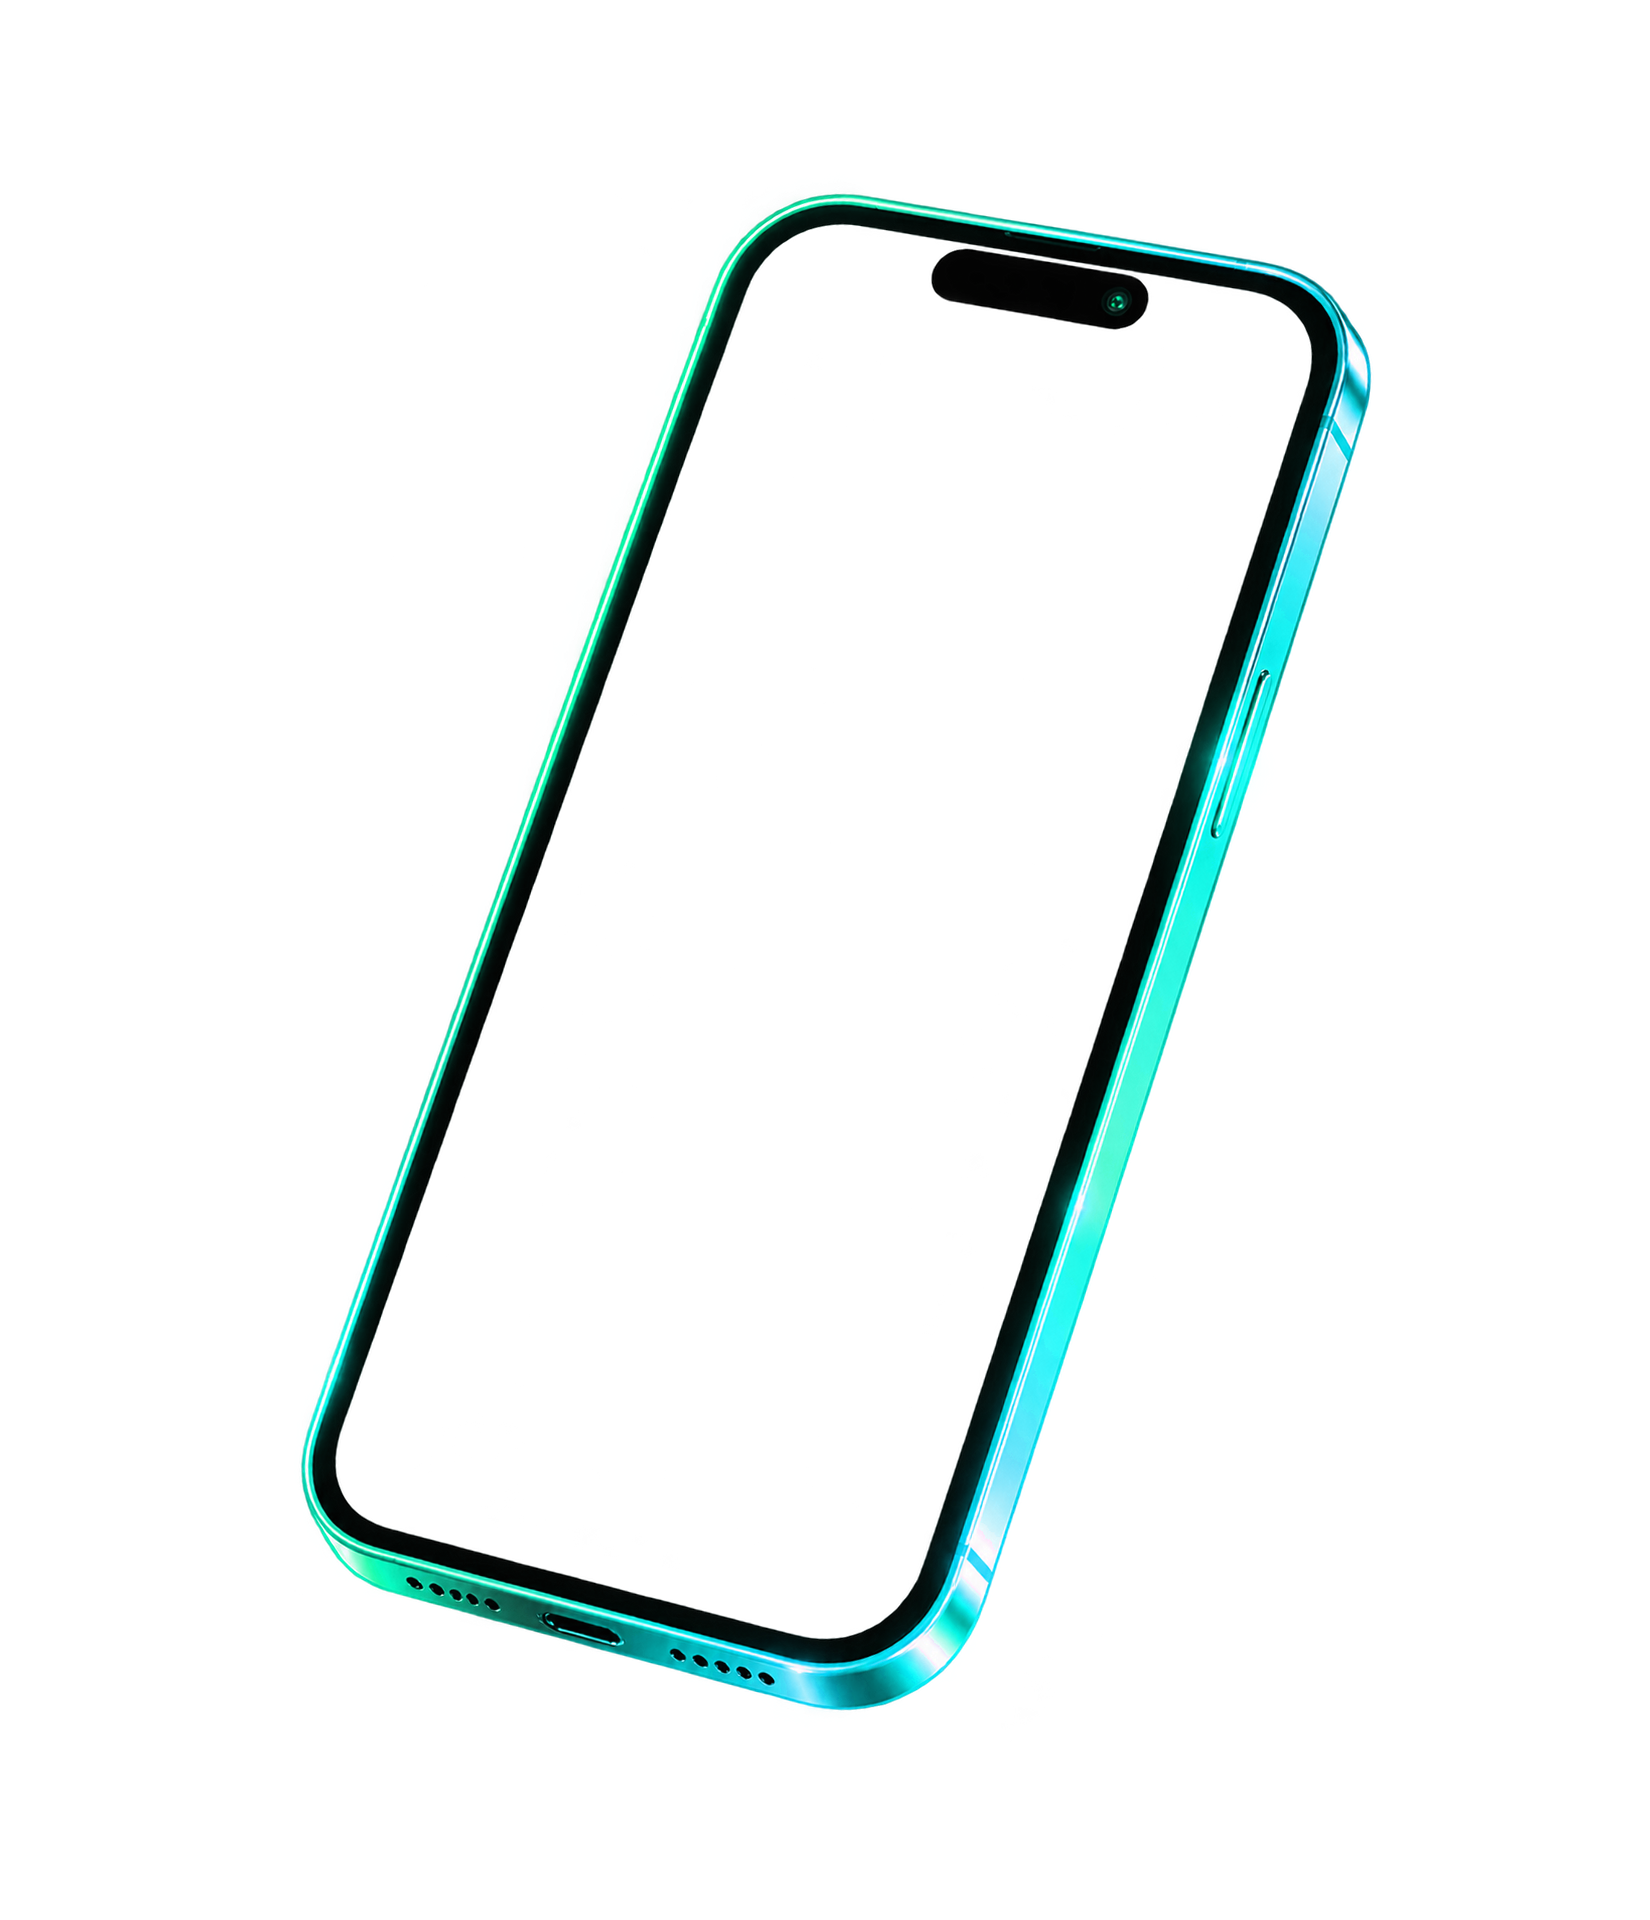
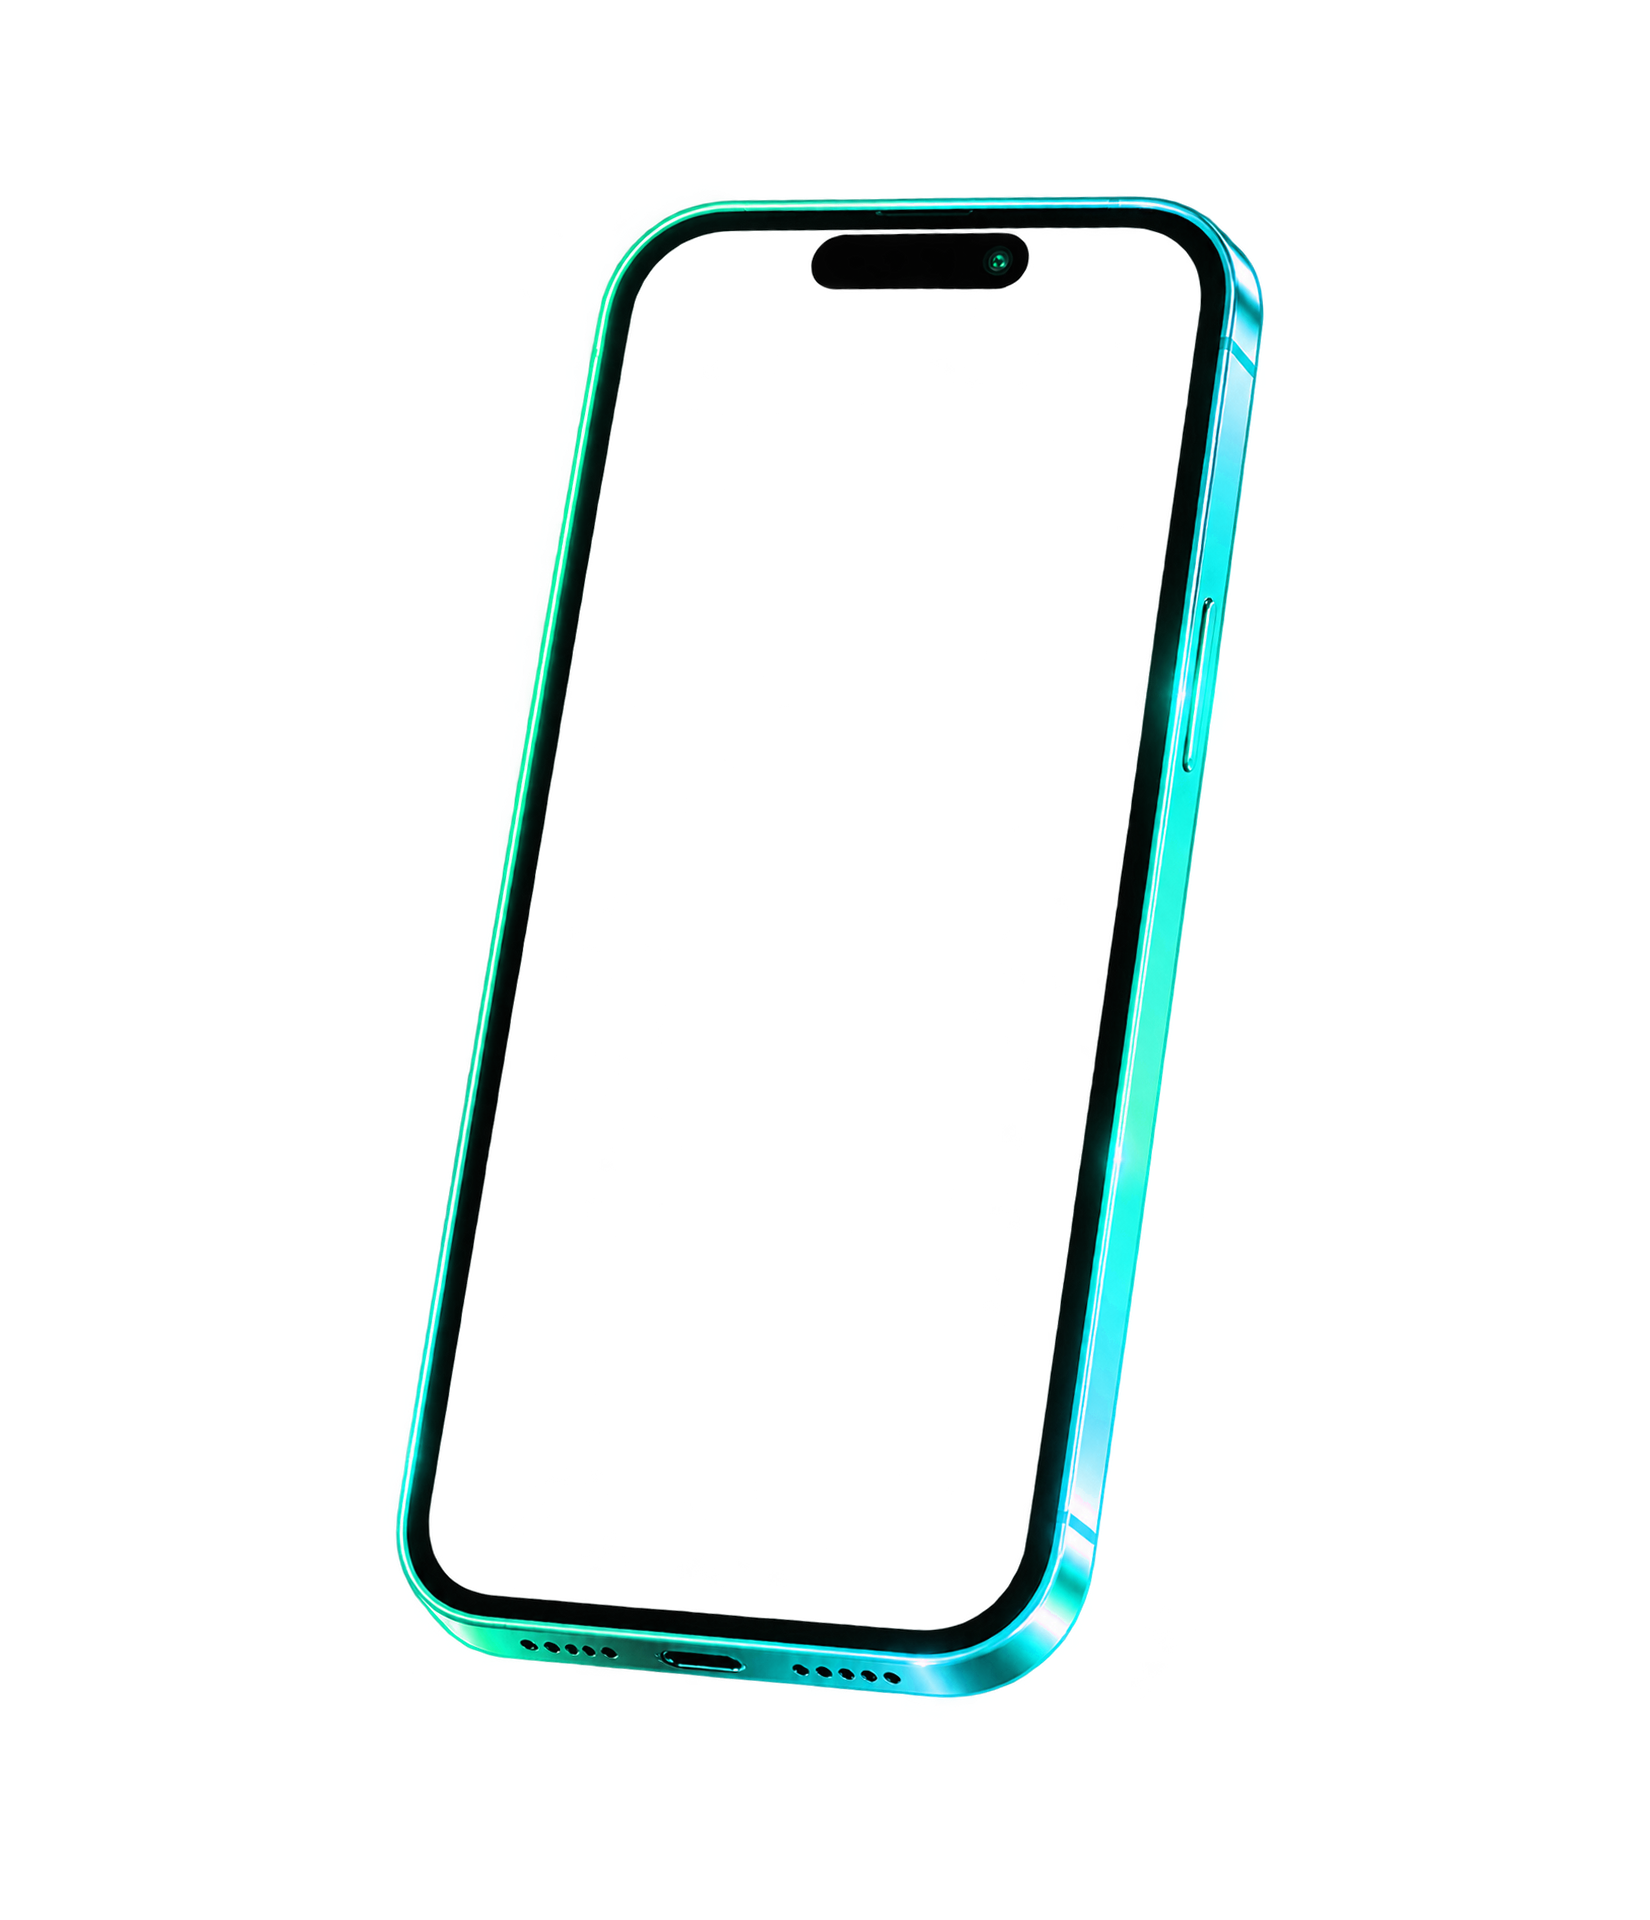
How it works: new teal phone, 5s steps, softer transitions
- phone_teal.png replaced: update TEAL_FRAME (same model as the blue phone,
  screen quad and body re-measured)
- Timeline flows 5s per step (was 6s)
- Phone crossfade 1.4s with slow-in/slow-out easing and gentler motion
  (scale 0.98, 10px drift, light blur), so outgoing and incoming phones
  blend; glow fades on the same curve
- Explanation text fades out (0.55s) and in (0.8s) softly; points stagger
  in more gently

Changed region(s): [[0.1855, 0.0938, 0.8345, 0.9062]]

diff --git a/src/components/sections/StepShowcase.tsx b/src/components/sections/StepShowcase.tsx
@@ -21,8 +21,10 @@ export type Step = {
 };
 
 /** Seconds the timeline takes to flow from one step to the next. */
-const DWELL = 6;
+const DWELL = 5;
 const ease = [0.22, 1, 0.36, 1] as const;
+/** Slow in, slow out — for the crossfades between steps. */
+const SOFT = [0.45, 0, 0.25, 1] as const;
 
 function TrackNode({
   step,
@@ -170,7 +172,7 @@ export function StepShowcase({
                 style={{ background: `radial-gradient(closest-side, ${g}, transparent)` }}
                 initial={false}
                 animate={{ opacity: i === active ? 1 : 0 }}
-                transition={{ duration: 0.8 }}
+                transition={{ duration: 1.4, ease: SOFT }}
               />
             ))}
             {/* all three screens stay mounted; only the active one is shown */}
@@ -183,9 +185,9 @@ export function StepShowcase({
                   animate={
                     i === active
                       ? { opacity: 1, scale: 1, x: 0, filter: "blur(0px)" }
-                      : { opacity: 0, scale: 0.96, x: i < active ? -24 : 24, filter: "blur(6px)" }
+                      : { opacity: 0, scale: 0.98, x: i < active ? -10 : 10, filter: "blur(4px)" }
                   }
-                  transition={{ duration: 0.7, ease }}
+                  transition={{ duration: 1.4, ease: SOFT }}
                   style={{ pointerEvents: i === active ? "auto" : "none" }}
                   aria-hidden={i !== active}
                 >
@@ -202,10 +204,9 @@ export function StepShowcase({
           <AnimatePresence mode="wait">
             <motion.div
               key={active}
-              initial={{ opacity: 0, y: 16, filter: "blur(6px)" }}
-              animate={{ opacity: 1, y: 0, filter: "blur(0px)" }}
-              exit={{ opacity: 0, y: -12, filter: "blur(6px)" }}
-              transition={{ duration: 0.45, ease }}
+              initial={{ opacity: 0, y: 8, filter: "blur(4px)" }}
+              animate={{ opacity: 1, y: 0, filter: "blur(0px)", transition: { duration: 0.8, ease: SOFT } }}
+              exit={{ opacity: 0, y: -6, filter: "blur(4px)", transition: { duration: 0.55, ease: SOFT } }}
             >
               <p className="flex items-baseline justify-center gap-3 font-mono text-[0.75rem] tracking-[0.06em] md:justify-start">
                 <span className="text-[#ff8a95]">0{active + 1}</span>
@@ -221,9 +222,9 @@ export function StepShowcase({
                 {step.points.map((p, i) => (
                   <motion.li
                     key={p}
-                    initial={{ opacity: 0, x: -10 }}
+                    initial={{ opacity: 0, x: -6 }}
                     animate={{ opacity: 1, x: 0 }}
-                    transition={{ duration: 0.4, delay: 0.15 + i * 0.08 }}
+                    transition={{ duration: 0.7, delay: 0.25 + i * 0.12, ease: SOFT }}
                     className="mx-auto flex max-w-md items-start gap-3 text-[0.95rem] text-white/80 md:mx-0"
                   >
                     <span className="mt-[9px] h-1.5 w-1.5 shrink-0 rounded-full bg-accent shadow-[0_0_8px_rgba(255,77,94,0.8)]" />

diff --git a/src/components/phone/geometry.ts b/src/components/phone/geometry.ts
@@ -122,20 +122,20 @@ export const RED_FRAME: FrameSpec = {
   ),
 };
 
-/** phone_teal.png — "How it works" step 3 (Join). */
+/** phone_teal.png — "How it works" step 3 (Join); same model as the blue phone. */
 export const TEAL_FRAME: FrameSpec = {
   src: images.phoneTeal,
   w: 1650,
   h: 1920,
-  screenH: 936,
-  body: { x: 301, y: 194, w: 1070, h: 1516 },
+  screenH: 930,
+  body: { x: 396, y: 196, w: 868, h: 1502 },
   matrix: quadMatrix(
     [
-      [772.2, 211.7],
-      [1332.4, 304.7],
-      [892.5, 1659.9],
-      [312.9, 1508.0],
+      [643.4, 231.8],
+      [1210.9, 227.6],
+      [1012.9, 1637.5],
+      [415.8, 1588.2],
     ],
-    936,
+    930,
   ),
 };
